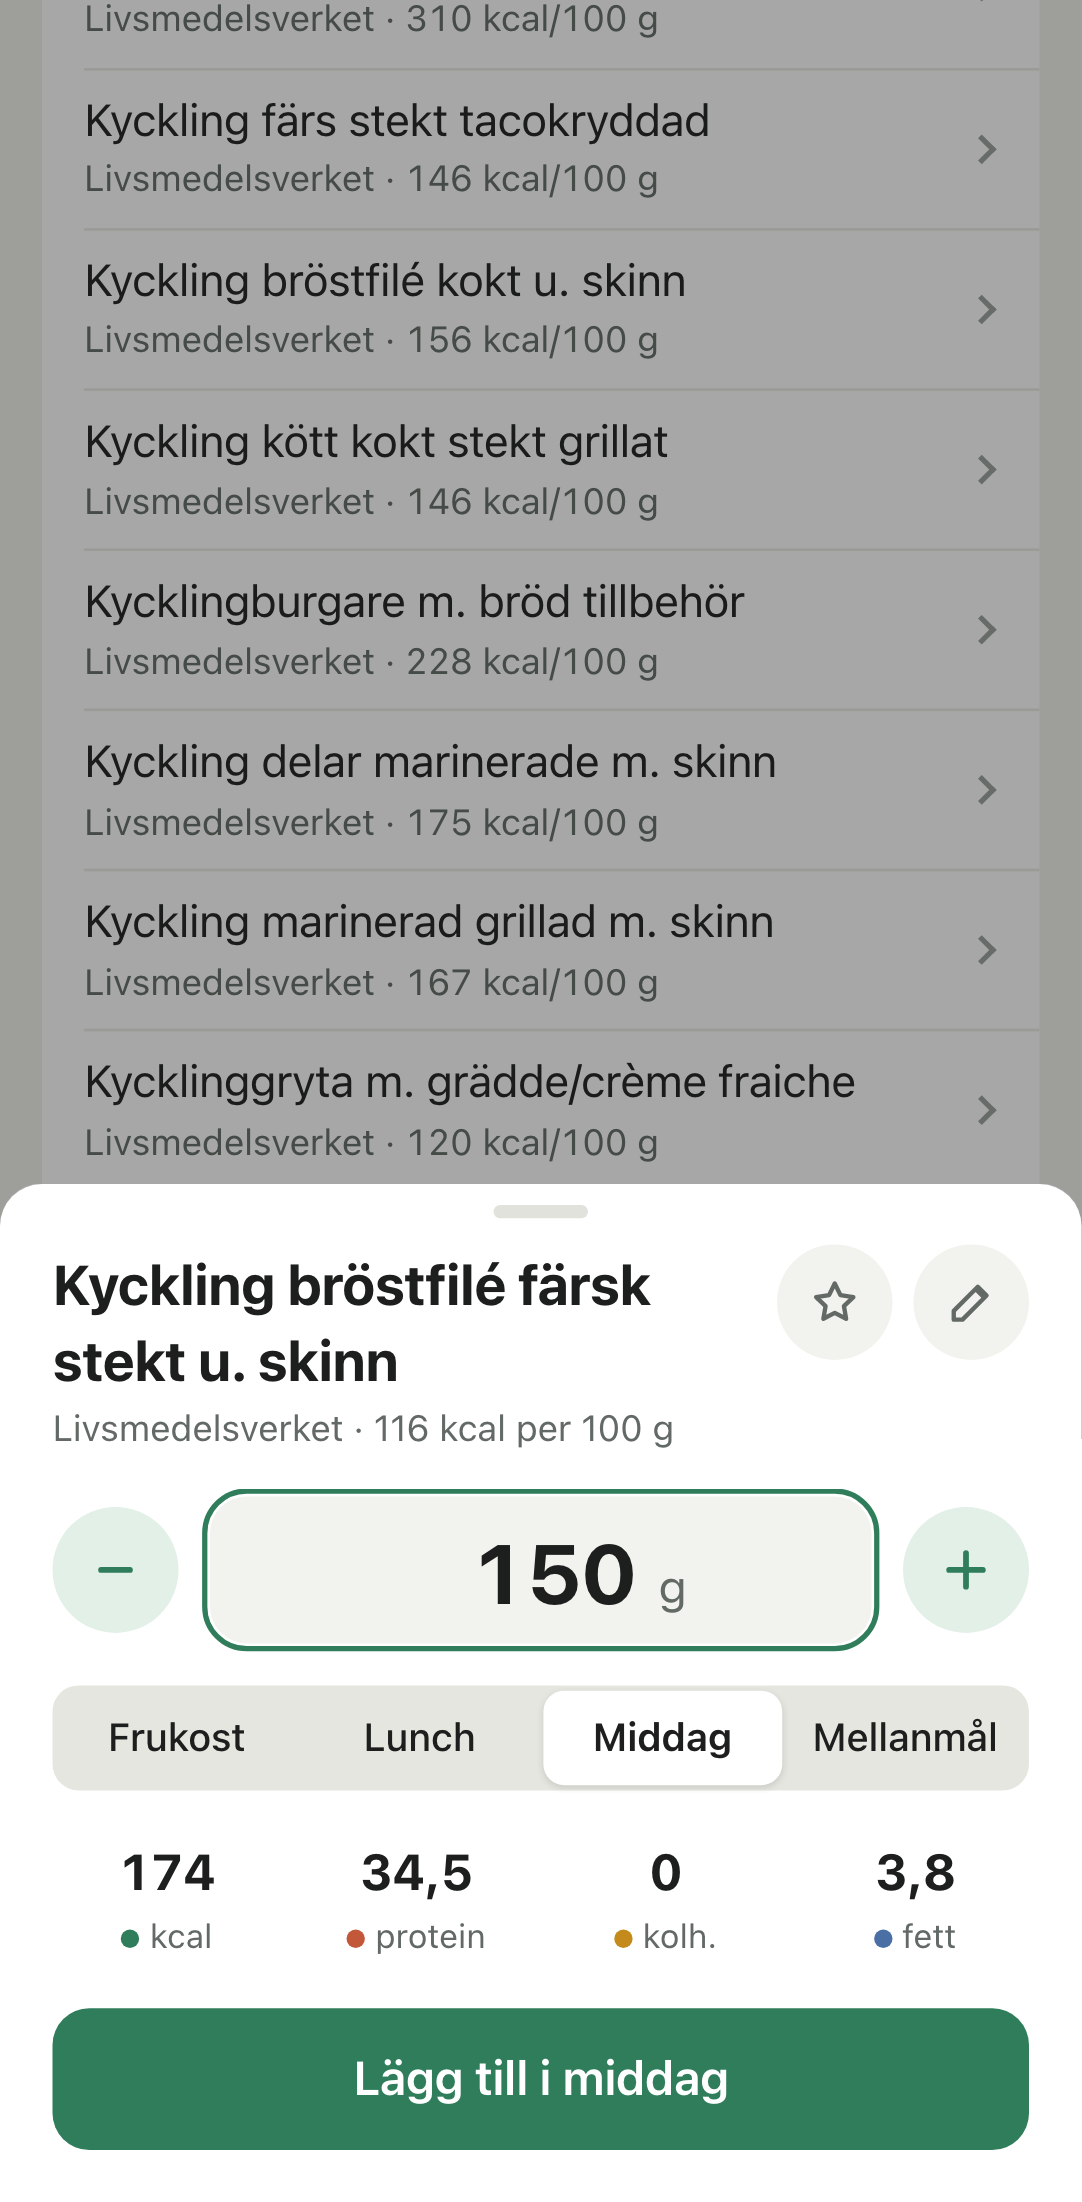
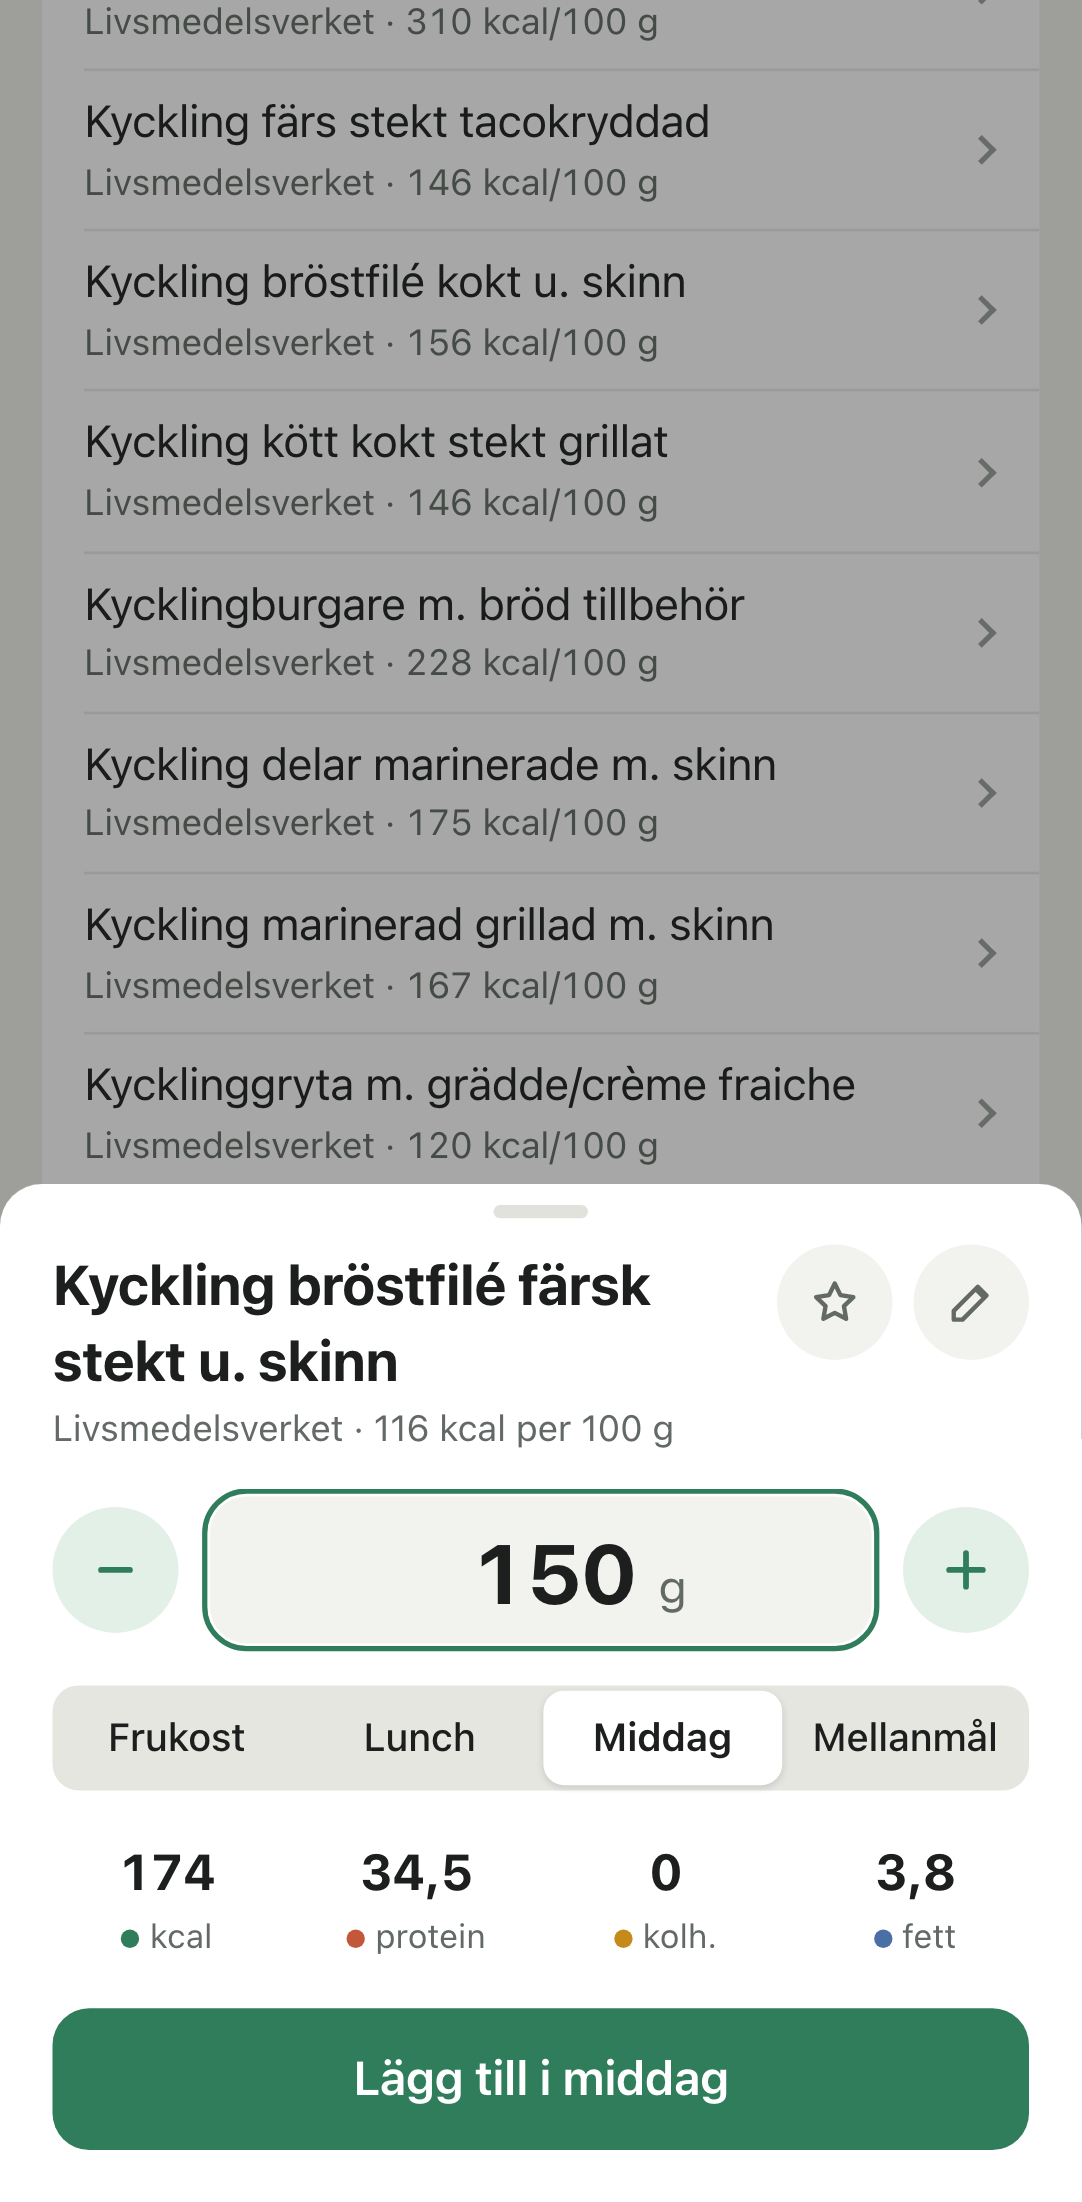
Show recent foods, favourites and recipes as tabs when adding food
With many recipes or favourites the add screen became a long list before
reaching recently logged foods. Only one list is now shown at a time,
chosen with a segmented control. The recipe tile moves into the recipe
tab as a "Nytt recept" row, and the README text and screenshots follow.

diff --git a/tests/ui/screens/shortcuts.test.tsx b/tests/ui/screens/shortcuts.test.tsx
@@ -275,12 +275,13 @@ describe('favoriter', () => {
     expect(await getFavoriteIds(db)).toEqual([])
   })
 
-  it('visar favoriterna först, innan man har sökt, och loggar från dem', async () => {
+  it('visar favoriterna under en egen flik och loggar från dem', async () => {
     await saveFavoriteIds(db, ['slv:123', 'slv:702'])
     window.location.hash = `#/lagg-till/${today}/lunch`
     const user = userEvent.setup()
     render(<App db={db} />)
 
+    await user.click(await screen.findByRole('radio', { name: 'Favoriter' }))
     const favorites = await screen.findByRole('list', { name: 'Favoriter' })
     expect(within(favorites).getAllByRole('button').map((b) => b.textContent)).toEqual([
       expect.stringContaining('Mjölk fett 3% berikad'),
@@ -295,7 +296,7 @@ describe('favoriter', () => {
     expect(await getEntriesForDate(db, today)).toMatchObject([{ foodId: 'slv:702', meal: 'lunch' }])
   })
 
-  it('visar inte en favorit en gång till bland senast loggade', async () => {
+  it('visar senast loggade som förval, även de som är favoriter', async () => {
     await addEntry(db, { date: yesterday, meal: 'lunch', foodId: 'slv:702', foodName: 'Havregryn fullkorn', grams: 80, per100g: oats })
     await addEntry(db, { date: yesterday, meal: 'lunch', foodId: 'slv:123', foodName: 'Mjölk fett 3% berikad', grams: 200, per100g: milk })
     await saveFavoriteIds(db, ['slv:702'])
@@ -303,26 +304,44 @@ describe('favoriter', () => {
     render(<App db={db} />)
 
     const recent = await screen.findByRole('list', { name: 'Senast loggade' })
-    expect(within(recent).getAllByRole('button')).toHaveLength(1)
-    expect(within(recent).getByRole('button', { name: /Mjölk/ })).toBeInTheDocument()
-    expect(within(screen.getByRole('list', { name: 'Favoriter' })).getByRole('button', { name: /Havregryn/ })).toBeInTheDocument()
+    expect(within(recent).getAllByRole('button')).toHaveLength(2)
+    expect(screen.getByRole('radio', { name: 'Senaste' })).toBeChecked()
+    expect(screen.queryByRole('list', { name: 'Favoriter' })).not.toBeInTheDocument()
+  })
+
+  it('behåller vald flik när man har sökt och rensat sökfältet', async () => {
+    await saveFavoriteIds(db, ['slv:702'])
+    window.location.hash = `#/lagg-till/${today}/lunch`
+    const user = userEvent.setup()
+    render(<App db={db} />)
+
+    await user.click(await screen.findByRole('radio', { name: 'Favoriter' }))
+    const search = screen.getByRole('searchbox', { name: 'Sök livsmedel' })
+    await user.type(search, 'mjölk')
+    expect(screen.queryByRole('radio', { name: 'Favoriter' })).not.toBeInTheDocument()
+    await user.clear(search)
+    expect(await screen.findByRole('list', { name: 'Favoriter' })).toBeInTheDocument()
   })
 
   it('hoppar över en favorit som inte finns längre', async () => {
     await saveFavoriteIds(db, ['custom:borttagen', 'slv:702'])
     window.location.hash = `#/lagg-till/${today}/lunch`
+    const user = userEvent.setup()
     render(<App db={db} />)
 
+    await user.click(await screen.findByRole('radio', { name: 'Favoriter' }))
     const favorites = await screen.findByRole('list', { name: 'Favoriter' })
     expect(within(favorites).getAllByRole('button')).toHaveLength(1)
   })
 
-  it('visar ingen rubrik för favoriter när det inte finns några', async () => {
+  it('förklarar hur man får favoriter när det inte finns några', async () => {
     window.location.hash = `#/lagg-till/${today}/lunch`
+    const user = userEvent.setup()
     render(<App db={db} />)
 
-    await screen.findByRole('searchbox', { name: 'Sök livsmedel' })
-    expect(screen.queryByRole('heading', { name: 'Favoriter' })).not.toBeInTheDocument()
+    await user.click(await screen.findByRole('radio', { name: 'Favoriter' }))
+    expect(await screen.findByText(/Inga favoriter än/)).toBeInTheDocument()
+    expect(screen.queryByRole('list', { name: 'Favoriter' })).not.toBeInTheDocument()
   })
 
   it('visar inte favoriter bland sökträffarna', async () => {

diff --git a/src/ui/screens/AddFoodScreen.tsx b/src/ui/screens/AddFoodScreen.tsx
@@ -2,8 +2,8 @@ import { useCallback, useRef, useState } from 'react'
 import type { Food, Meal } from '../../domain/types'
 import { AmountForm } from '../components/AmountForm'
 import { FavoriteButton } from '../components/FavoriteButton'
-import { FoodList } from '../components/FoodList'
 import { FoodSearchResults } from '../components/FoodSearchResults'
+import { FoodShortcuts, type ShortcutTab } from '../components/FoodShortcuts'
 import { Icon } from '../components/Icon'
 import { NavBar } from '../components/NavBar'
 import { QuickEntrySheet } from '../components/QuickEntrySheet'
@@ -47,6 +47,7 @@ export function AddFoodScreen({ date, meal, foodId }: Props) {
   // undefined tills användaren själv har valt eller stängt något
   const [choice, setChoice] = useState<Food | null>()
   const [quickOpen, setQuickOpen] = useState(false)
+  const [tab, setTab] = useState<ShortcutTab>('recent')
   const preselected = useFood(foodId)
   const results = useFoodSearch(query)
   const recent = useRecentFoods()
@@ -105,22 +106,24 @@ export function AddFoodScreen({ date, meal, foodId }: Props) {
             <Icon name="pencil" size={22} />
             Eget livsmedel
           </a>
-          <a className="tile-button" href={toHash({ name: 'recipe', action: 'new', context: { date, meal } })}>
-            <Icon name="book" size={22} />
-            Recept
-          </a>
           <button type="button" className="tile-button" onClick={() => setQuickOpen(true)}>
             <Icon name="flash" size={22} />
             Kalorier
           </button>
         </div>
-        {query.trim() === '' && recipes && recipes.length > 0 && (
-          <section>
-            <h2 className="section-title">Mina recept</h2>
-            <FoodList label="Mina recept" foods={recipes} onSelect={setChoice} />
-          </section>
+        {query.trim() === '' ? (
+          <FoodShortcuts
+            tab={tab}
+            onTabChange={setTab}
+            recent={recent}
+            favorites={favorites}
+            recipes={recipes}
+            newRecipeHref={toHash({ name: 'recipe', action: 'new', context: { date, meal } })}
+            onSelect={setChoice}
+          />
+        ) : (
+          <FoodSearchResults query={query} results={results} favorites={favorites} recent={recent} onSelect={setChoice} />
         )}
-        <FoodSearchResults query={query} results={results} favorites={favorites} recent={recent} onSelect={setChoice} />
       </main>
       {quickOpen && <QuickEntrySheet date={date} meal={meal} onClose={() => setQuickOpen(false)} />}
       {selected && (

diff --git a/src/ui/components/FoodShortcuts.tsx b/src/ui/components/FoodShortcuts.tsx
@@ -1,0 +1,60 @@
+import type { Food } from '../../domain/types'
+import { FoodList } from './FoodList'
+import { Icon } from './Icon'
+import { SegmentedControl } from './SegmentedControl'
+
+export type ShortcutTab = 'recent' | 'favorites' | 'recipes'
+
+const TABS = [
+  { value: 'recent', label: 'Senaste' },
+  { value: 'favorites', label: 'Favoriter' },
+  { value: 'recipes', label: 'Recept' },
+] as const
+
+/** Listans namn för skärmläsare. */
+const LIST_LABELS: Record<ShortcutTab, string> = {
+  recent: 'Senast loggade',
+  favorites: 'Favoriter',
+  recipes: 'Mina recept',
+}
+
+const EMPTY_HINTS: Record<ShortcutTab, string> = {
+  recent: 'Här visas det du har loggat senast.',
+  favorites: 'Inga favoriter än. Tryck på stjärnan när du lägger till ett livsmedel så hamnar det här.',
+  recipes: 'Du har inga recept än.',
+}
+
+type Props = {
+  tab: ShortcutTab
+  onTabChange: (tab: ShortcutTab) => void
+  /** Listorna är undefined medan de laddar. */
+  recent: Food[] | undefined
+  favorites: Food[] | undefined
+  recipes: Food[] | undefined
+  newRecipeHref: string
+  onSelect: (food: Food) => void
+}
+
+/** Senast loggade, favoriter och recept som flikar, så att bara en lista visas åt gången. */
+export function FoodShortcuts({ tab, onTabChange, recent, favorites, recipes, newRecipeHref, onSelect }: Props) {
+  const lists: Record<ShortcutTab, Food[] | undefined> = { recent, favorites, recipes }
+  const foods = lists[tab]
+
+  return (
+    <section className="stack">
+      <SegmentedControl label="Visa" options={TABS} value={tab} onChange={onTabChange} />
+      {tab === 'recipes' && (
+        <a className="new-row" href={newRecipeHref}>
+          <Icon name="plus" size={20} strokeWidth={2.4} />
+          Nytt recept
+        </a>
+      )}
+      {foods &&
+        (foods.length > 0 ? (
+          <FoodList label={LIST_LABELS[tab]} foods={foods} onSelect={onSelect} />
+        ) : (
+          <p className="hint">{EMPTY_HINTS[tab]}</p>
+        ))}
+    </section>
+  )
+}

diff --git a/tests/ui/screens/recipes.test.tsx b/tests/ui/screens/recipes.test.tsx
@@ -56,7 +56,8 @@ async function addIngredient(user: ReturnType<typeof userEvent.setup>, search: s
 it('skapar ett recept av ingredienser och loggar en portion av det', async () => {
   const user = userEvent.setup()
   render(<App db={db} />)
-  await user.click(await screen.findByRole('link', { name: 'Recept' }))
+  await user.click(await screen.findByRole('radio', { name: 'Recept' }))
+  await user.click(screen.getByRole('link', { name: 'Nytt recept' }))
 
   const save = await screen.findByRole('button', { name: 'Spara recept' })
   expect(save).toBeDisabled()
@@ -102,11 +103,14 @@ it('loggar en halv portion', async () => {
   expect(await getEntriesForDate(db, date)).toMatchObject([{ foodId: recipe.id, grams: 100 }])
 })
 
-it('visar recepten i listan och hittar dem med sökning', async () => {
+it('visar recepten under en egen flik och hittar dem med sökning', async () => {
   await createRecipe(db, recipeInput)
   const user = userEvent.setup()
   render(<App db={db} />)
 
+  await screen.findByRole('searchbox', { name: 'Sök livsmedel' })
+  expect(screen.queryByRole('list', { name: 'Mina recept' })).not.toBeInTheDocument()
+  await user.click(screen.getByRole('radio', { name: 'Recept' }))
   const list = await screen.findByRole('list', { name: 'Mina recept' })
   expect(within(list).getByRole('button', { name: /Havregrynsgröt/ })).toHaveTextContent('275 kcal/portion')
 

diff --git a/src/ui/components.css b/src/ui/components.css
@@ -255,6 +255,24 @@ fieldset.card > legend + * {
   font-variant-numeric: tabular-nums;
 }
 
+/* Rad som skapar något nytt, till exempel ett recept, ovanför en lista */
+.new-row {
+  display: flex;
+  align-items: center;
+  gap: 8px;
+  min-height: 48px;
+  padding: 0 16px;
+  background: var(--surface);
+  border-radius: var(--radius);
+  color: var(--accent);
+  font-weight: 500;
+  text-decoration: none;
+}
+
+.new-row:active {
+  opacity: 0.6;
+}
+
 /* Pil till höger på rader som leder vidare */
 .food-list .entry {
   padding-right: 40px;
@@ -538,9 +556,9 @@ select:focus-visible {
   margin-top: 0;
 }
 
-/* Fyra rutor bredvid varandra: Skanna, Eget livsmedel, Recept och Kalorier */
+/* Tre rutor bredvid varandra: Skanna, Eget livsmedel och Kalorier */
 .button-row.tiles {
-  grid-template-columns: repeat(4, minmax(0, 1fr));
+  grid-template-columns: repeat(3, minmax(0, 1fr));
 }
 
 /* Ikonen ovanför texten, så att tre rutor ryms på en smal skärm */

diff --git a/tests/e2e/flows.spec.ts b/tests/e2e/flows.spec.ts
@@ -196,7 +196,8 @@ test('kopierar gårdagens lunch, loggar kalorier snabbt och återanvänder en fa
   await expect(page.getByRole('region', { name: 'Middag' }).getByRole('button', { name: 'Pizza, 500 kcal' })).toBeVisible()
   await expect(page.getByText('1 350')).toBeVisible() // 2000 − 150 − 500
 
-  // Favoriten finns överst när man lägger till något nytt
+  // Favoriten finns under sin flik när man lägger till något nytt
   await page.getByRole('link', { name: 'Lägg till i frukost' }).click()
+  await page.getByRole('radiogroup', { name: 'Visa' }).getByText('Favoriter').click()
   await expect(page.getByRole('list', { name: 'Favoriter' }).getByRole('button', { name: /^Havregryn fullkorn/ })).toBeVisible()
 })
